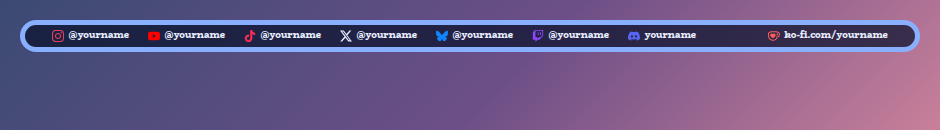
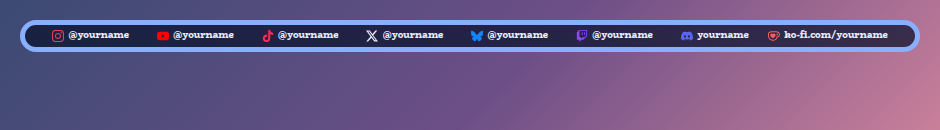
Spread the Socials Bar sites across the width of the box
The gap between sites was fixed to the size of the text, so a wide box
left them huddled together on the left however much room there was.
Side by side, they now divide the space the box gives them, so the gaps
grow and shrink with the box drawn in StreamElements. The gap setting
becomes the least there can be, and a checkbox keeps the old close
together look for anyone who prefers it.

Changed region(s): [[0.1543, 0.2154, 0.8021, 0.3385]]

diff --git a/overlays/socials-bar/test/test-widget.js b/overlays/socials-bar/test/test-widget.js
@@ -56,6 +56,15 @@ const nameOf = (n) => (n.children[1] ? n.children[1].textContent : "");
   ok(/\.sb-left\.rotating \.sb-item\s*\{[^}]*opacity:\s*0[^}]*transition:\s*opacity/.test(css), "the others are faded out by a transition on opacity, so it is a fade and not a jump");
   ok(/\.sb-left\.rotating\s*\{[^}]*display:\s*grid/.test(css) && /grid-area:\s*1 \/ 1/.test(css), "all the sites share one cell, so the bar does not change width as they change");
 
+  section("spreading across the box");
+  await load({ rotate: false });
+  ok(E("sb-left").classList.contains("spread"), "side by side, the sites spread across the width, so the gaps follow the box");
+  await load({ rotate: false, spread: false }); ok(!E("sb-left").classList.contains("spread"), "or can stay close together on the left");
+  await load({}); ok(!E("sb-left").classList.contains("spread"), "rotating, there is one at a time and nothing to spread");
+  await load({ rotate: false }); await load({}); ok(!E("sb-left").classList.contains("spread"), "going back to rotating leaves nothing behind");
+  ok(/\.sb-left\.spread\s*\{[^}]*flex:\s*1 1 0[^}]*justify-content:\s*space-between/.test(css), "the left side takes the room that is left and divides it between the sites");
+  ok(/\.sb-left\.spread\s*\{[^}]*margin-right:\s*calc\(var\(--sb-gap/.test(css), "and keeps the gap setting between the last site and the right side");
+
   section("the look");
   await load({ textSize: 2, iconScale: 2, gap: 3 });
   let a = env.vars("sb-app");

diff --git a/overlays/socials-bar/widget/widget.css b/overlays/socials-bar/widget/widget.css
@@ -62,6 +62,9 @@
 /* The bar: sites on the left, support links on the right. When there are too many for the width, they wrap onto a second row. */
 .sb-side { display: flex; flex-wrap: wrap; align-items: center; column-gap: calc(var(--sb-gap, 1.6) * 1em); row-gap: 0.3em; min-width: 0; }
 .sb-right { margin-left: auto; justify-content: flex-end; }
+/* Spread: the left side takes all the room the right side leaves, and the sites divide it between them, so the gaps follow the
+   width of the box. The gap setting is the least there can be, and the same again keeps the last site clear of the right side. */
+.sb-left.spread { flex: 1 1 0; justify-content: space-between; margin-right: calc(var(--sb-gap, 1.6) * 1em); }
 .sb-item { display: inline-flex; align-items: center; gap: 0.45em; white-space: nowrap; font-weight: var(--w-weight); }
 .sb-ico {
   flex: 0 0 auto;

diff --git a/overlays/socials-bar/widget/widget.js b/overlays/socials-bar/widget/widget.js
@@ -415,6 +415,7 @@
     c.rotate = bool(f.rotate, true);
     c.rotateSeconds = clamp(num(f.rotateSeconds, 4), 1, 60);
     c.fadeSeconds = clamp(num(f.fadeSeconds, 0.6), 0.1, 3);
+    c.spread = bool(f.spread, true);
     c.showNames = bool(f.showNames, true);
     c.iconColor = str(f.iconColor, "accent");
     if (c.iconColor !== "text" && c.iconColor !== "brand") c.iconColor = "accent";
@@ -482,6 +483,7 @@
     el.root.hidden = count === 0;
     var rotating = cfg.rotate && el.left.children.length > 1;
     if (rotating) el.left.classList.add("rotating"); else el.left.classList.remove("rotating");
+    if (cfg.spread && !rotating) el.left.classList.add("spread"); else el.left.classList.remove("spread");
     if (rotating) show(0);
     else for (var j = 0; j < el.left.children.length; j++) { el.left.children[j].classList.add("on"); }
     startRotation();

diff --git a/overlays/socials-bar/README.md b/overlays/socials-bar/README.md
@@ -11,6 +11,7 @@ It is a single self-contained widget in plain JavaScript, with no dependencies a
 - Sixteen sites: Instagram, YouTube, TikTok, Twitter or X, Bluesky, Twitch, Discord, Facebook, Threads, Mastodon, Snapchat, GitHub, Kick and Reddit on the left, and Ko-fi and Patreon on the right. A site with a blank handle is left out, so you only show the ones you use.
 - The left side rotates: one site at a time fades out as the next fades in, and the bar stays the width of the widest one, so nothing jumps about. You choose how many seconds each stays and how long the fade takes, or untick Rotate to show them all side by side.
 - A logo in front of every handle, in your accent colour, your text colour, or each site's own colour. Or logos on their own, with no handles.
+- Gaps that follow the box: side by side, the sites spread across the width you give the widget in StreamElements, so a wide box gets wide gaps and a narrow one gets close ones. Your gap setting is the least there can be.
 - Wraps when it is tight: if there are too many for the width of the box, the sites wrap onto a second row instead of running off the edge.
 - Scales with the box: the text scales with the width of the box you draw.
 - Customisable: around fifty settings cover the handles, rotation, sizes, shape, outline, colours, fonts and animation.
@@ -88,7 +89,7 @@ The sites on the left show in the order they are listed in the settings. Ko-fi c
 
 By default the left side shows one site at a time. Each stays for **Seconds each site stays on screen** (four by default, never less than one), then fades out while the next fades in over **Seconds the fade between sites takes**. The sites all share one space, so the bar is as wide as the widest handle and the right side does not shift.
 
-Untick **Rotate the left side** to show every site side by side. With only one site on the left there is nothing to rotate, so it just stays. **Animate** off stops the fade, and the sites then change without it.
+Untick **Rotate the left side** to show every site side by side. They spread across the width of the box you draw in StreamElements, with **Smallest space between the sites** as the least there can be. Untick **Spread the sites across the width of the box** to keep them close together on the left instead. With only one site on the left there is nothing to rotate, so it just stays. **Animate** off stops the fade, and the sites then change without it.
 
 The logos are the sites' own marks, drawn from [Simple Icons](https://simpleicons.org), which are released into the public domain (CC0). The logos belong to the sites they stand for, and are here only to point to your own pages.
 
@@ -101,7 +102,7 @@ Every setting has a plain label in StreamElements, grouped as follows.
 | Left side | A handle for each of Instagram, YouTube, TikTok, Twitter or X, Bluesky, Twitch, Discord, Facebook, Threads, Mastodon, Snapchat, GitHub, Kick and Reddit. |
 | Right side | Ko-fi and Patreon. |
 | Rotation | Whether the left side rotates, how long each site stays, and how long the fade takes. |
-| Layout | Whether handles show beside the logos, and the logo colour. |
+| Layout | Whether the sites spread across the width of the box, whether handles show beside the logos, and the logo colour. |
 | Size | Text size, how big the logos are and the space between sites. |
 | Look | The style preset, font, boldness, corners, padding, outer frame, outline, shadow, Animate and whether it shrinks to fit the box. |
 | Custom colours | Panel, text and accent colours, used when the style preset is Custom. A checkbox there also lets the Panel opacity apply to any preset, not only Custom. |
